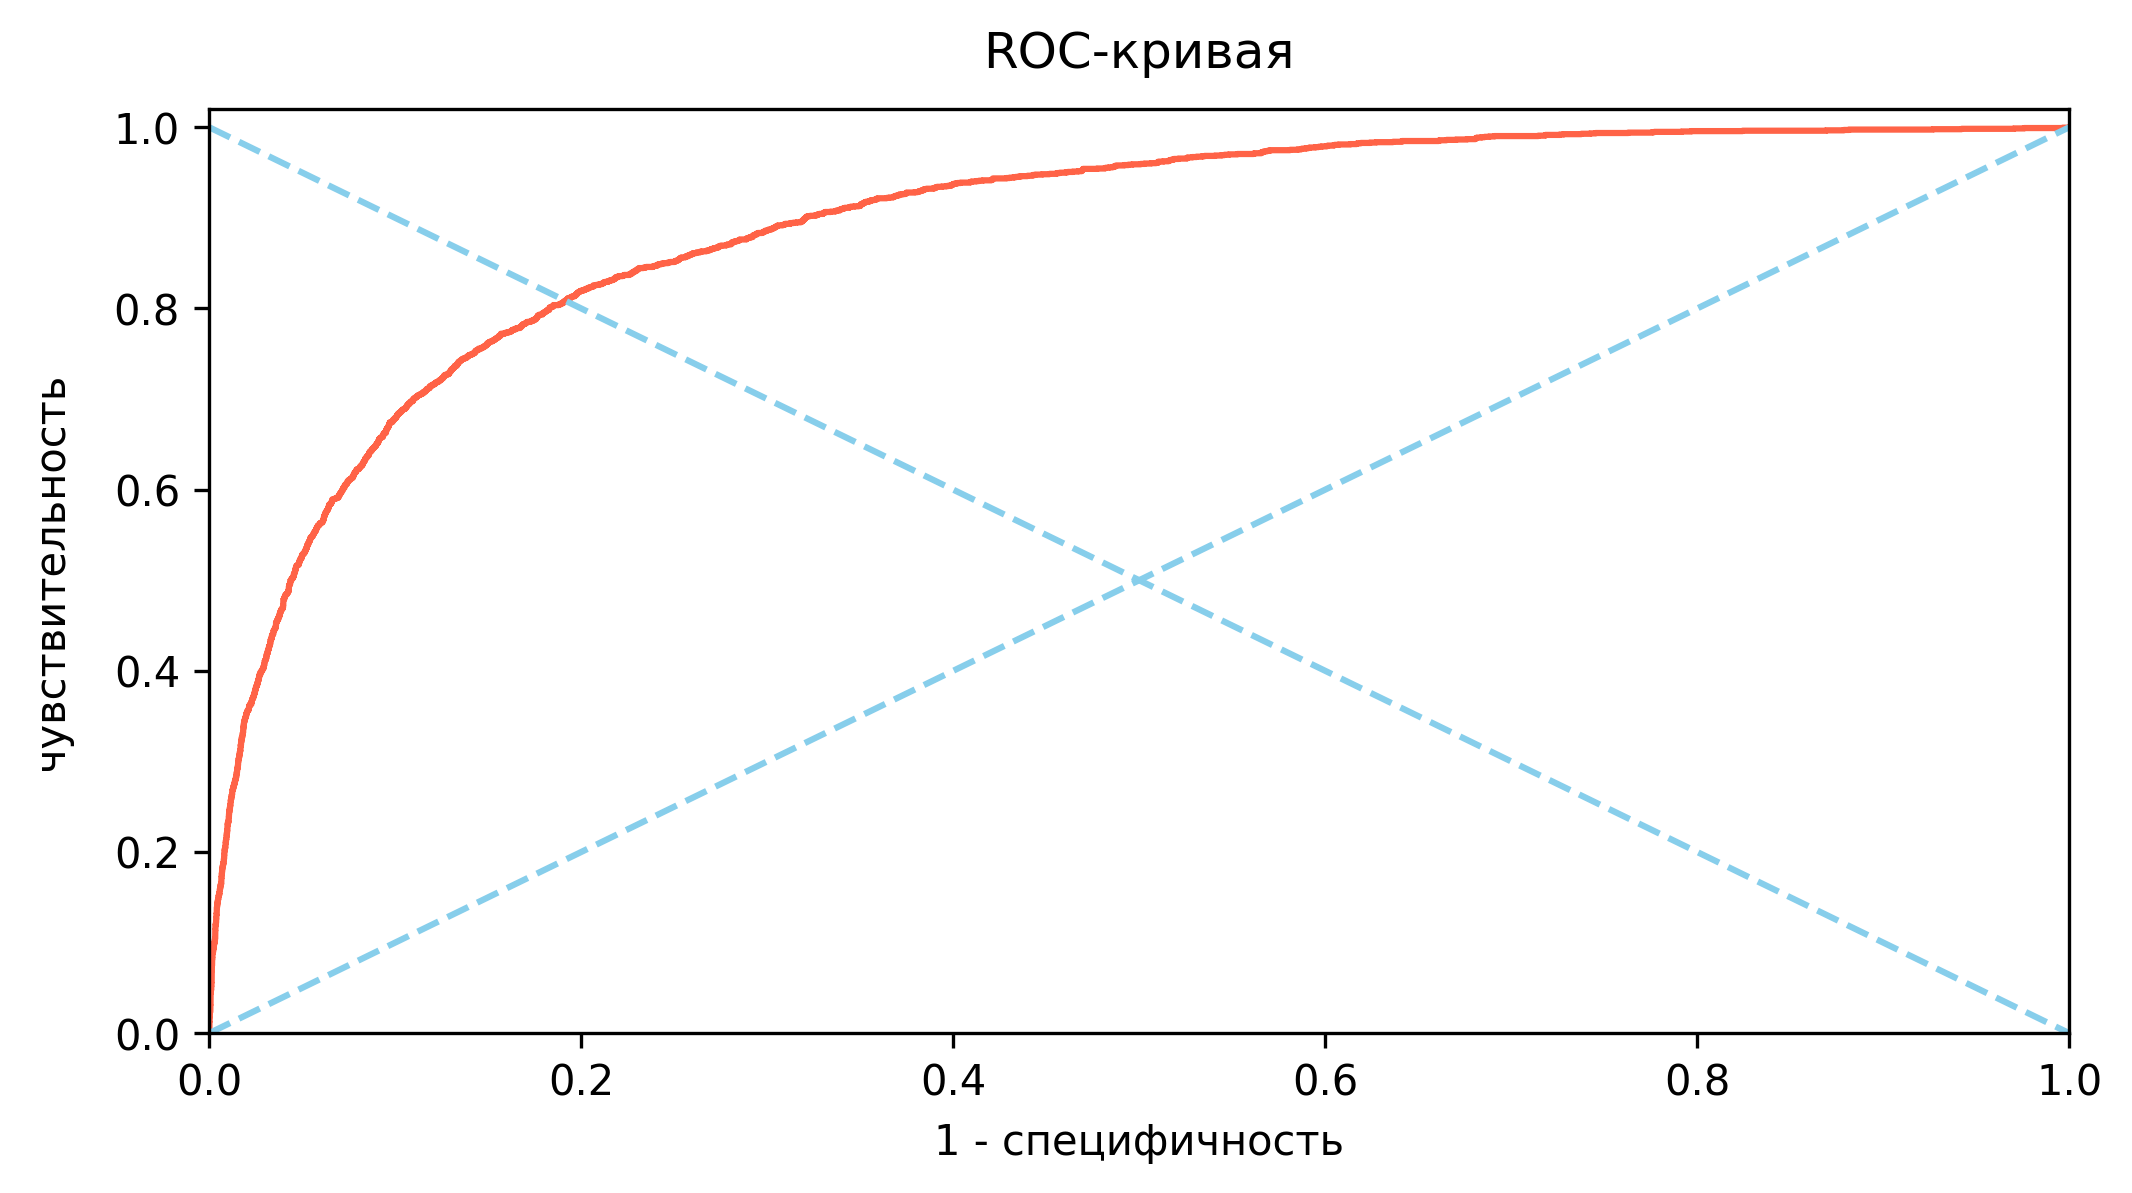
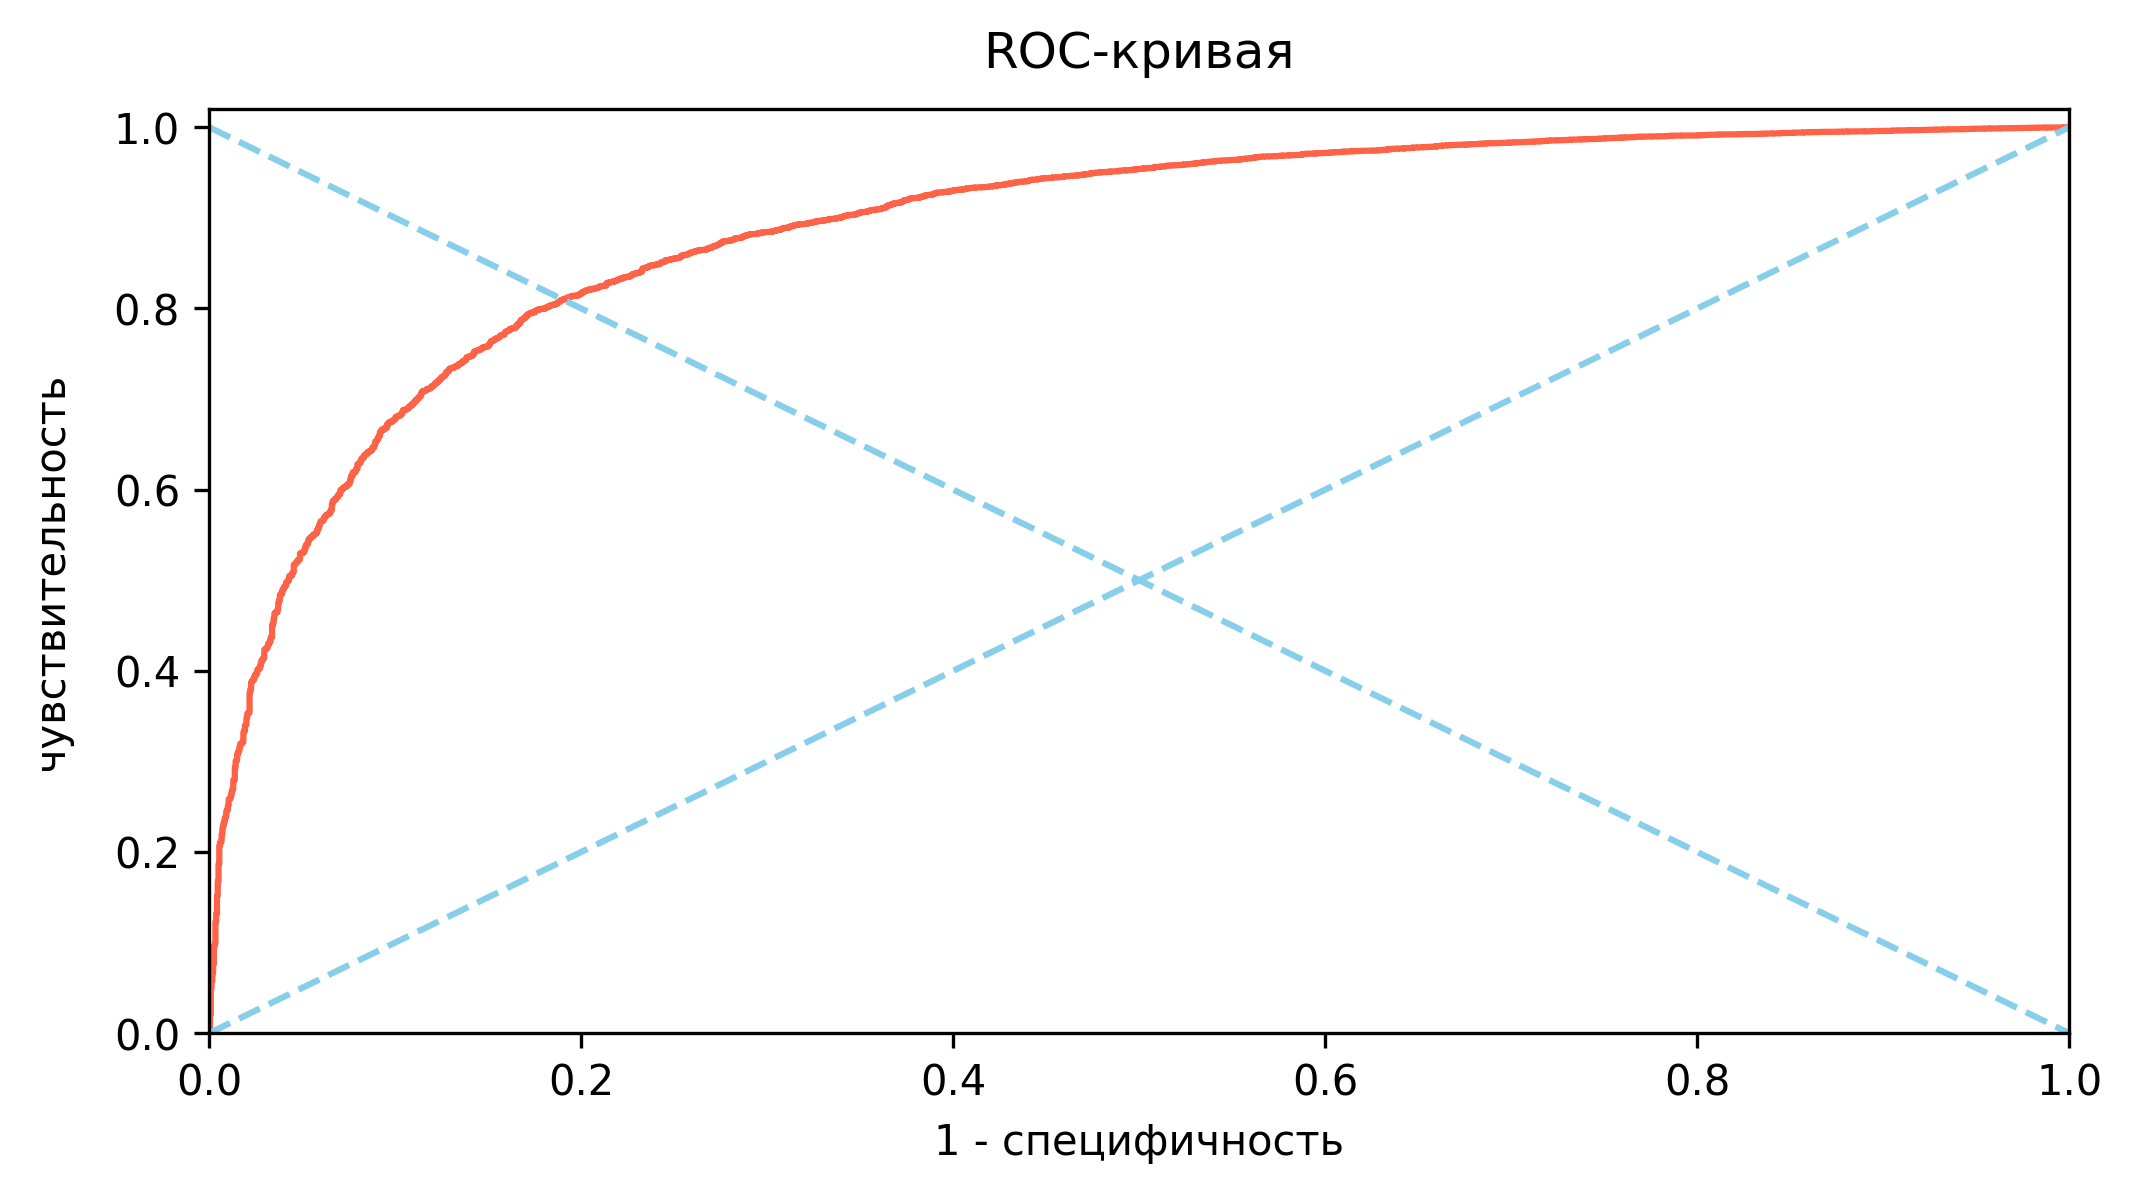
categorical crossentropy

diff --git a/train-softmax.py b/train-softmax.py
@@ -1,7 +1,3 @@
-import os
-
-# os.environ["CUDA_VISIBLE_DEVICES"] = "-1"
-
 import pandas as pd
 from keras.utils import set_random_seed
 import json
@@ -11,9 +7,6 @@ from utils.models import *
 from utils.processing import *
 
 repeats = 3  # кол-во повторений обучения
-# Установим seed для воспроизводимости результатов:
-seeds = [random.randint(0, 2**32 - 1) for _ in range(repeats)]
-
 # Прочитаем данные:
 df = pd.read_csv("./data/ferritin-all.csv", sep=",", dtype={"hgb": float})
 print(df.head())
@@ -28,11 +21,10 @@ hidden_units = 90
 
 list_statistics = []
 for i in range(repeats):
-    # set_random_seed(seeds[i])
     class_weight, x_train, y_train, x_test, y_test, pos, neg = preparate_data(
-        df, n_features, targets, scale=True, encode=False, seed=None
+        df, n_features, targets, scale=True, encode=True, seed=None
     )
-    model = create_model(hidden_units, pos, neg)
+    model = create_softmax_model(hidden_units)
     history_data = train_model(
         model,
         x_train,
@@ -44,10 +36,17 @@ for i in range(repeats):
         filename="ferritin-all",
     )
     # Визуализируем кривые обучения:
-    plot_loss2(history_data, False, f"history_100-epochs_ferritin-all")
+    plot_loss2(history_data, True, f"history_100-epochs_ferritin-all")
 
     y_train_predict = model.predict(x_train)
     y_predict = model.predict(x_test)
+    print(f"Shape of y train predict: {y_train_predict.shape}")
+    print(f"Shape of y predict: {y_predict.shape}")
+
+    y_train = y_train[:, 0]
+    y_test = y_test[:, 0]
+    y_train_predict = y_train_predict[:, 0]
+    y_predict = y_predict[:, 0]
     print(f"Shape of y train predict: {y_train_predict.shape}")
     print(f"Shape of y predict: {y_predict.shape}")
 

diff --git a/utils/models.py b/utils/models.py
@@ -63,6 +63,22 @@ def create_model(hidden_units, pos, neg) -> Model:
     return model
 
 
+def create_softmax_model(hidden_units) -> Model:
+    input = Input(shape=(12,))
+    x = Dense(units=hidden_units, activation="relu")(input)
+    output = Dense(units=2, activation="softmax")(x)
+
+    model = Model(inputs=input, outputs=output)
+
+    opt = keras.optimizers.Adam(learning_rate=0.003)
+    l = keras.losses.CategoricalCrossentropy()
+    m = keras.metrics.CategoricalAccuracy()
+
+    model.compile(optimizer=opt, loss=l, metrics=[m])
+    model.summary()
+    return model
+
+
 def create_ensemble(
     k: int = 3,
     hidden_units: int = 5,
@@ -214,6 +230,8 @@ def evaluate_model(
     tp, tn, fp, fn = calculate_confusion_matrix(y_test, y_predict, ot)
 
     accuracy = 100.0 * (tp + tn) / (tp + tn + fp + fn)
+    recall = 100.0 * tp / (tp + fn)
+    precision = 100.0 * tp / (tp + fp)
     sensitivity = 100.0 * tp / (tp + fn)
     specificity = 100.0 * tn / (tn + fp)
     f1_score = 100.0 * 2.0 * tp / (2.0 * tp + fp + fn)
@@ -231,6 +249,8 @@ def evaluate_model(
         print(f"FP = {int(fp)}")
         print(f"FN = {int(fn)}")
         print(f"Accuracy = {accuracy:.2f} %")
+        print(f"Recall = {recall:.2f} %")
+        print(f"Precision = {precision:.2f} %")
         print(f"Sensitivity = {sensitivity:.2f} %")
         print(f"Specificity = {specificity:.2f} %")
         print(f"F1-score = {f1_score:.2f} %")
@@ -243,6 +263,8 @@ def evaluate_model(
     statistics["fp"] = fp
     statistics["fn"] = fn
     statistics["acc"] = accuracy
+    statistics["precision"] = precision
+    statistics["recall"] = recall
     statistics["sen"] = sensitivity
     statistics["spec"] = specificity
     statistics["f1"] = f1_score

diff --git a/utils/processing.py b/utils/processing.py
@@ -8,6 +8,12 @@ from sklearn.utils import shuffle
 # from imblearn.over_sampling import SMOTE, SMOTENC, ADASYN
 
 
+def label_encode(y: np.ndarray, n_class: int = 2):
+    one_hot = np.eye(n_class)
+    y_enc = one_hot[y.flatten()]
+    return y_enc
+
+
 def use_oversampling(x: np.ndarray, y: np.ndarray) -> Tuple[np.ndarray, np.ndarray]:
     pos_mask = (y == 1.0).flatten()
     neg_mask = ~pos_mask
@@ -36,13 +42,13 @@ def preparate_data(
     n_features: int,
     targets: List[str],
     scale: bool = True,
+    encode: bool = False,
     seed: int = 42,
 ) -> Tuple[Dict[int, float], np.ndarray, np.ndarray, np.ndarray, np.ndarray]:
 
     y = df.filter(items=targets).to_numpy().flatten().astype("float64")
 
     y = np.array(list(map(lambda x: (1 if x < 12.0 else 0), y)), dtype="int64")
-    print(f"Shape of y: {y.shape}")
     print(f"Доля пациентов с низким ферритином: {100 * sum(y) / len(y)}%")
     pos, neg = sum(y), len(y) - sum(y)
     print(f"total={len(y)}")
@@ -62,6 +68,10 @@ def preparate_data(
     )
     print(f"Веса классов: {class_weight}")
 
+    if encode:
+        y = label_encode(y)
+    print(f"Shape of y: {y.shape}")
+
     x_scaled = x
     # Масштабируем данные:
     if scale:
@@ -79,8 +89,8 @@ def preparate_data(
     x_train = np.zeros((train_size, n_features), dtype=float)
     x_test = np.zeros((test_size, n_features), dtype=float)
 
-    y_train = np.zeros((train_size, 1), dtype=float)
-    y_test = np.zeros((test_size, 1), dtype=float)
+    y_train = np.zeros((train_size, y.ndim), dtype=float)
+    y_test = np.zeros((test_size, y.ndim), dtype=float)
 
     # Перемешаем данные:
     inds = [i for i in range(data_size)]

diff --git a/test3.py b/test3.py
@@ -1,26 +1,35 @@
 import numpy as np
+from keras import ops
+from keras.losses import CategoricalCrossentropy
+import tensorflow as tf
+from keras.backend import epsilon
 
-x = [np.array([[1, 2, 3], [4, 5, 6]]), np.array([7, 8, 11])]
-y = [2 * np.array([[1, 2, 3], [4, 5, 6]]), 2 * np.array([7, 8, 11])]
-w = []
-w.append(x)
-w.append(y)
-# print(w)
+loss = CategoricalCrossentropy()
 
-# # Реализация:
-# weights = list(map(lambda x: x[0], w))
-# biases = list(map(lambda x: x[1], w))
+y_true = np.array([[0, 1, 0], [0, 0, 1]])
+y_pred = np.array([[0.05, 0.95, 0], [0.1, 0.8, 0.1]])
+# y_true = np.array([[0, 1, 0]])
+# y_pred = np.array([[0.05, 0.95, 0]])
+print(y_true)
+print(y_pred)
 
-# new_weights = [np.mean(weights, axis=0), np.mean(biases, axis=0)]
+res = loss(y_true, y_pred)
+print(res)
 
-# print()
-# print(new_weights)
 
-# average_weights = []
-# for weights in zip(*w):
-#     average_weights.append(np.mean(weights, axis=0))
+# def categorical_crossentropy(y_true, y_pred):
+#     y_pred = np.clip(a=y_pred, a_min=epsilon(), a_max=1.0 - epsilon())
+#     loss = y_true * ops.log(y_pred)
+#     loss = -ops.sum(loss, axis=-1)
+#     return ops.mean(loss)
 
-# print(average_weights)
 
-a = [1, 2, 3, 4, 5]
-print(a[-4:])
+def categorical_crossentropy(y_true, y_pred):
+    y_pred = tf.clip_by_value(y_pred, epsilon(), 1.0 - epsilon())
+    loss = y_true * tf.math.log(y_pred)
+    loss = -tf.reduce_sum(loss, axis=-1)
+    return tf.reduce_mean(loss)
+
+
+res = categorical_crossentropy(y_true, y_pred)
+print(res)

diff --git a/utils/plots.py b/utils/plots.py
@@ -64,11 +64,14 @@ def plot_loss(history_data: Dict[str, List[float]], filename: str):
     plt.savefig(os.path.join(output_dir, f"{filename}.png"), dpi=300)
 
 
-def plot_loss2(history_data: Dict[str, List[float]], filename: str):
+def plot_loss2(
+    history_data: Dict[str, List[float]], softmax: bool = False, filename: str = ""
+):
+    metric = "categorical" if softmax else "binary"
     train_loss = history_data["loss"]
     val_loss = history_data["val_loss"]
-    train_accuracy = history_data["binary_accuracy"]
-    val_accuracy = history_data["val_binary_accuracy"]
+    train_accuracy = history_data[f"{metric}_accuracy"]
+    val_accuracy = history_data[f"val_{metric}_accuracy"]
 
     fig, axes = plt.subplots(1, 2, figsize=(15, 4))
     x_values = [i for i in range(1, len(train_loss) + 1)]

diff --git a/utils/losses.py b/utils/losses.py
@@ -1,0 +1,9 @@
+import tensorflow as tf
+from keras.backend import epsilon
+
+
+def categorical_crossentropy(y_true, y_pred):
+    y_pred = tf.clip_by_value(y_pred, epsilon(), 1.0 - epsilon())
+    loss = y_true * tf.math.log(y_pred)
+    loss = -tf.reduce_sum(loss, axis=-1)
+    return tf.reduce_mean(loss)
